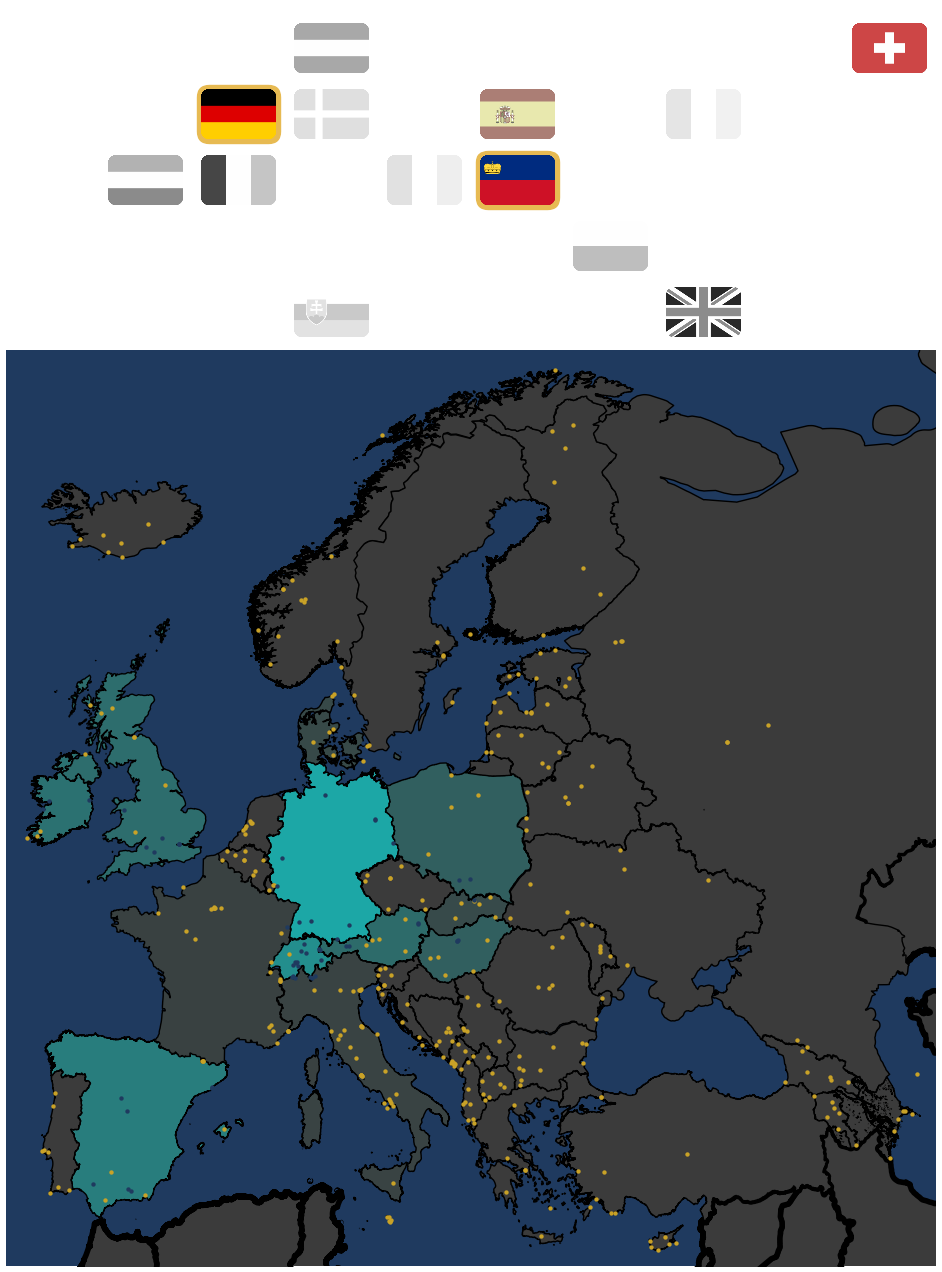
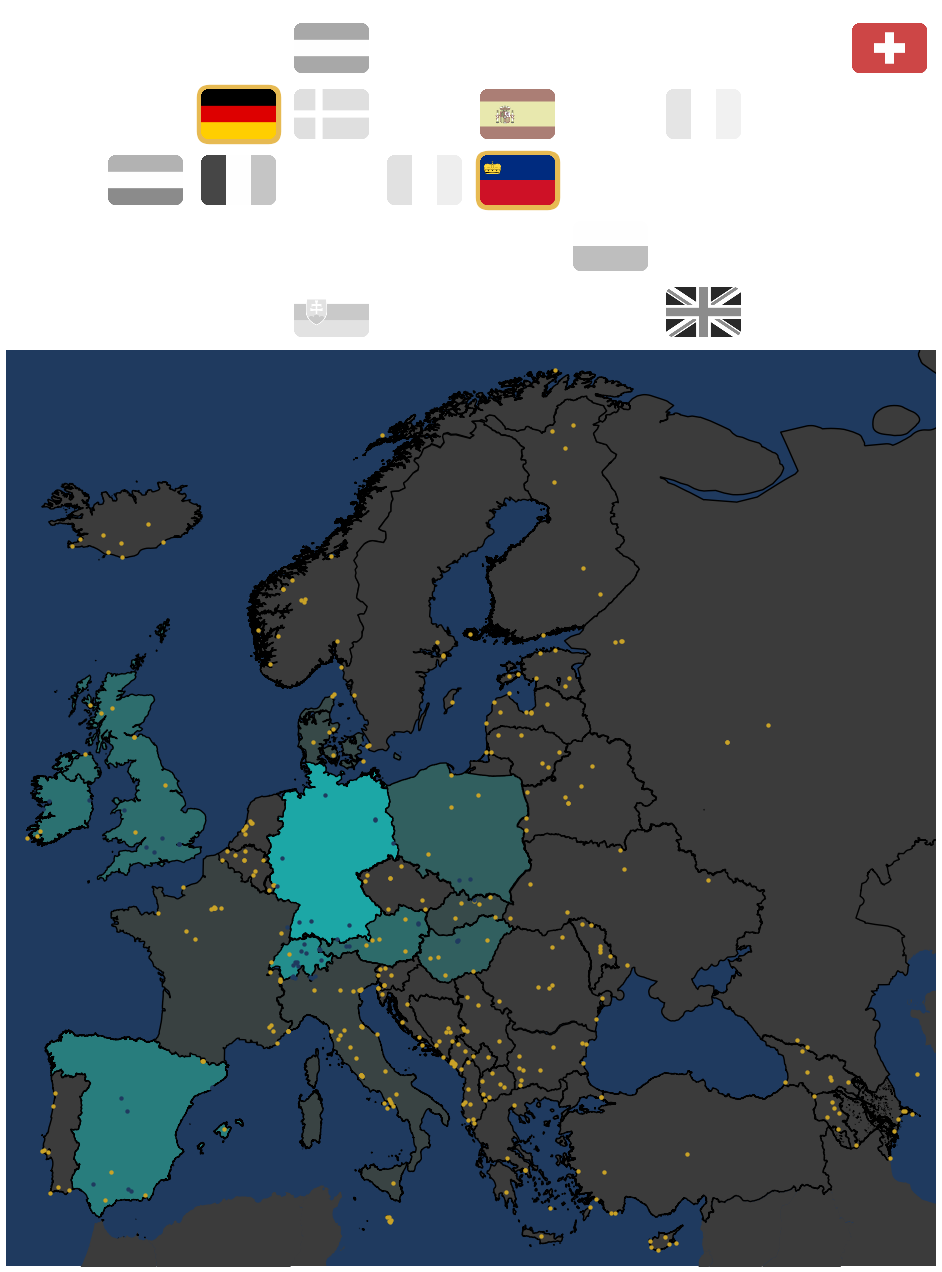
update background for gifs

diff --git a/main.py b/main.py
@@ -15,10 +15,10 @@ from utils.file_utils import ensure_directory_exists
 #PATH = "us"
 
 # Germany Global Variables
-PATH = "de"
+#PATH = "de"
 
 # Europe Global Variables
-#PATH = "eu"
+PATH = "eu"
 
 # Iran Global Variables
 #PATH = "ir"
